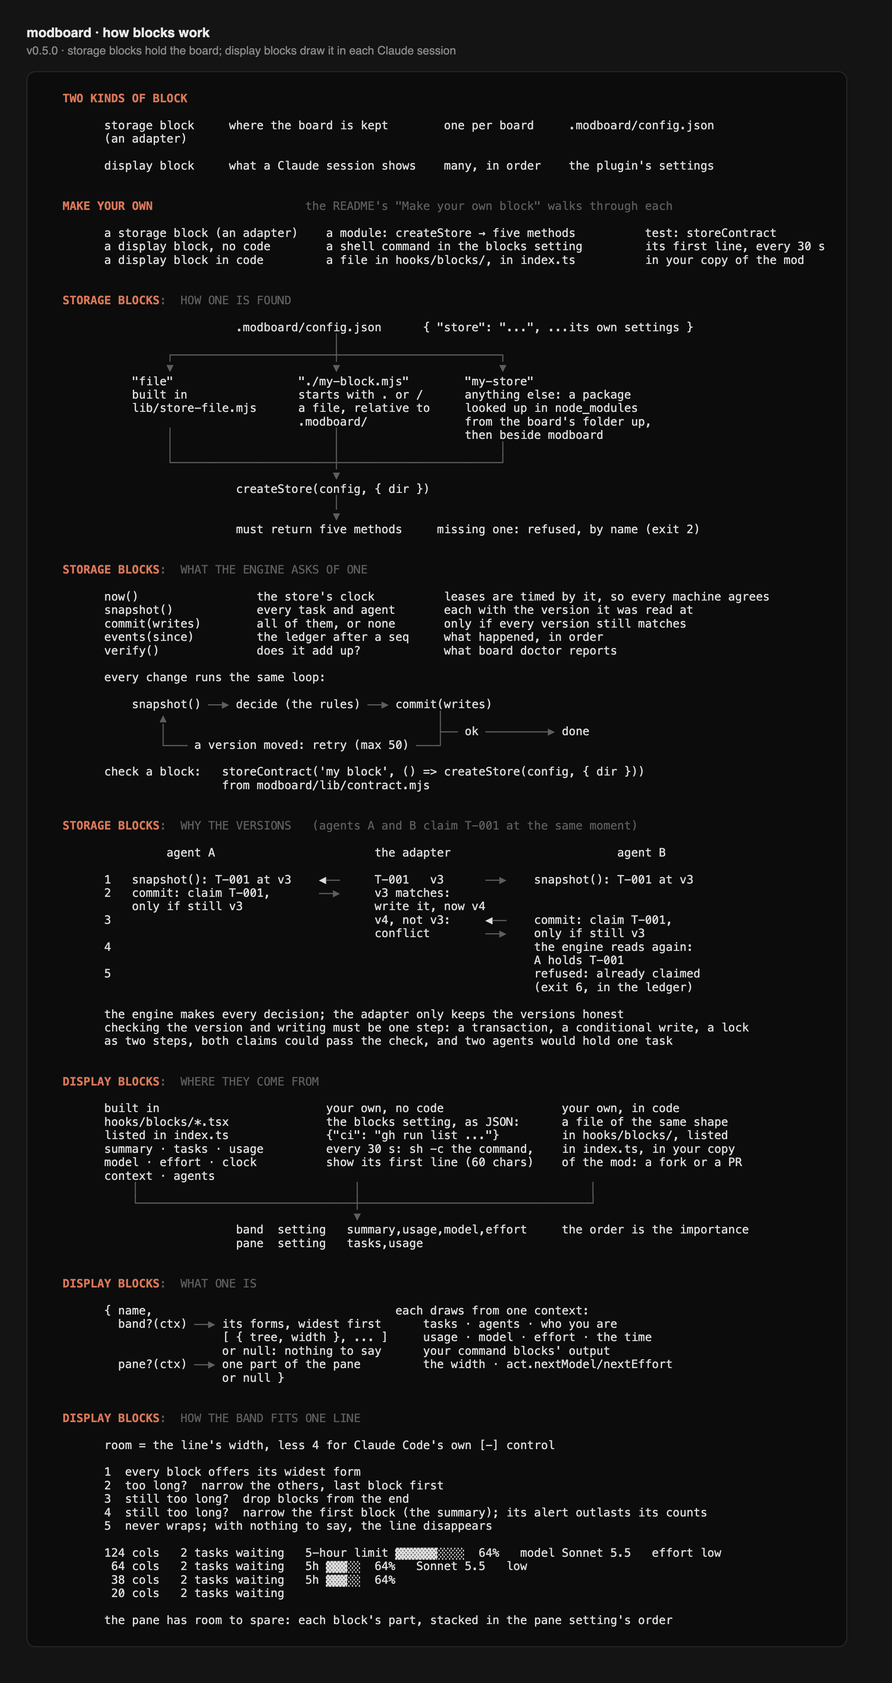
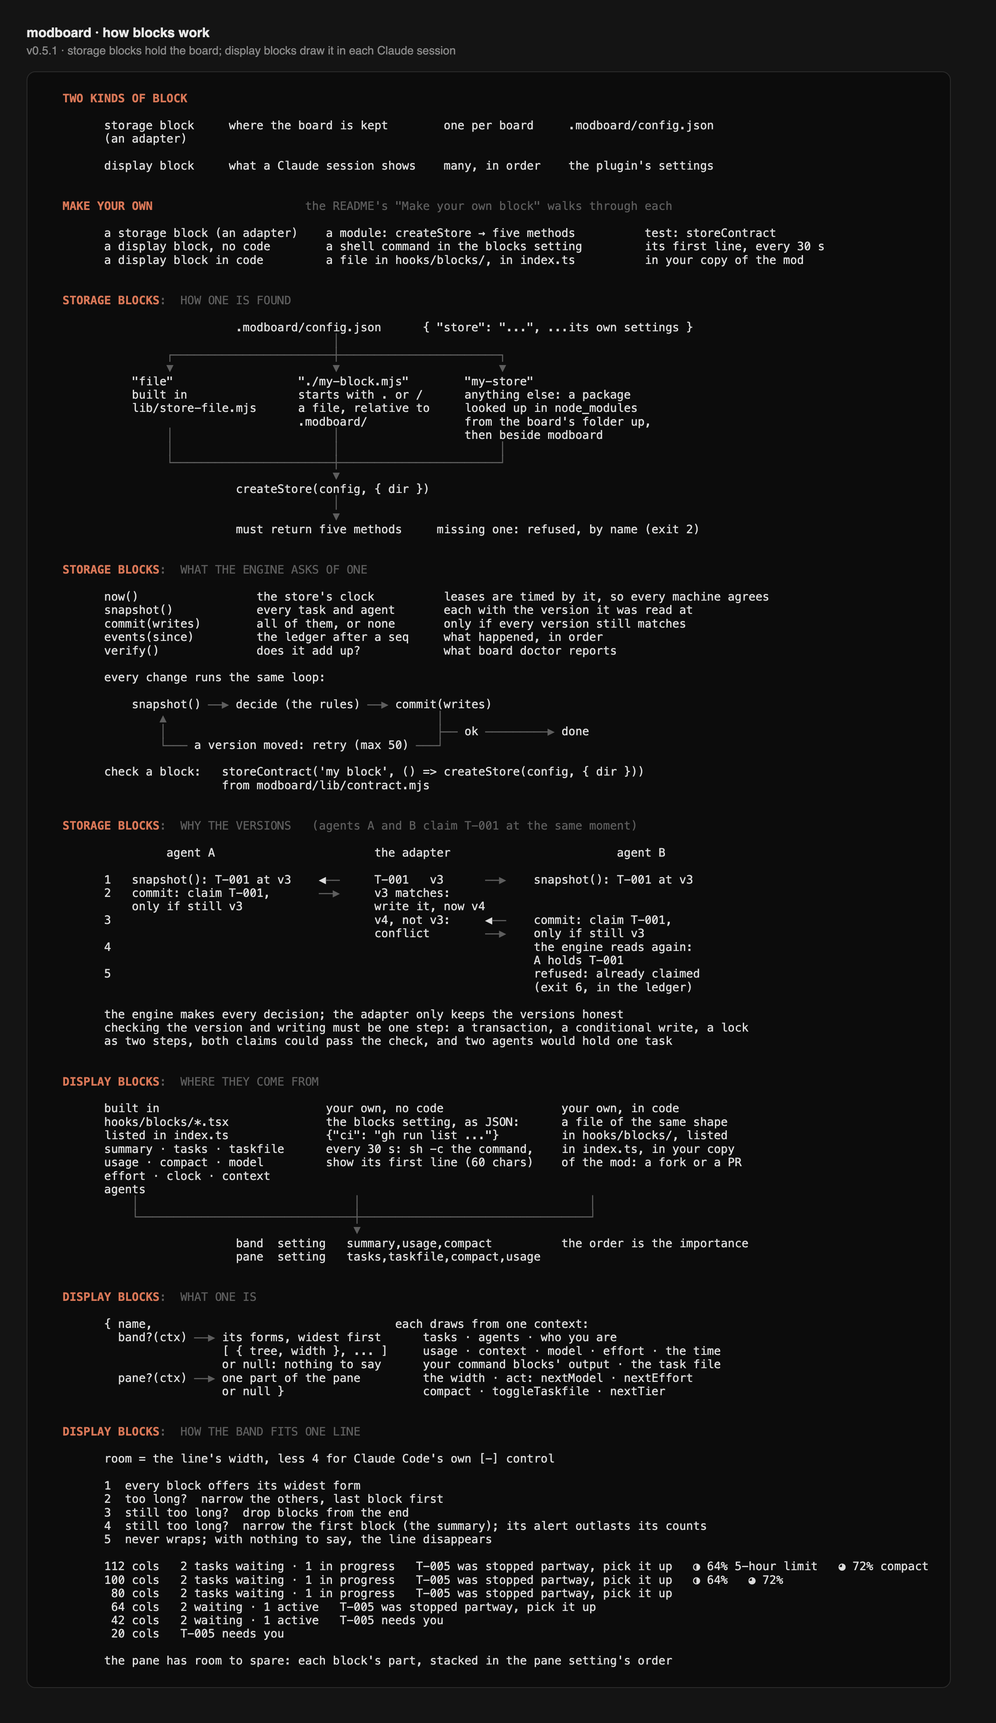
Bring the docs up to date with the task file, priorities and quieter display
- CHANGELOG: Unreleased regrouped into Added, Changed and Reading task files.
- README: what a block's context and act now hold, the two display rules for
  new blocks, what the tests cover, and new known limitations (the task file
  is read-only, /compact from a mod is unverified live, the demo recording
  predates the quieter pane).
- CONTRIBUTING: the display style rules: say a thing once, colour only when
  something needs the person, show what's left then a count, one ring for
  anything that fills.
- docs/system and docs/blocks: new built-in blocks and defaults, the band's
  widths with the ring, "Stopped partway"; images re-rendered.

diff --git a/docs/system.html b/docs/system.html
@@ -9,7 +9,7 @@
   .d{color:#5e5e5e} .h{color:#d97757;font-weight:700} .c{color:#d97757} .g{color:#4ec27a} .m{color:#9a9a9a} .p{color:#f0f0f0;font-weight:700}
   </style></head><body><div class="wrap">
   <p class="t">modboard · how it fits together</p>
-  <p class="s">v0.5.0 · one CLI owns the board; Claude sessions and other agents all go through it</p>
+  <p class="s">v0.5.1 · one CLI owns the board; Claude sessions and other agents all go through it</p>
   <pre><span class="h">  WHO WORKS ON THE BOARD</span><span class="d"></span>
 
   <span class="d">┌</span><span class="d">─</span><span class="d">─</span><span class="d">─</span><span class="d">─</span><span class="d">─</span><span class="d">─</span><span class="d">─</span><span class="d">─</span><span class="d">─</span><span class="d">─</span><span class="d">─</span><span class="d">─</span><span class="d">─</span><span class="d">─</span><span class="d">─</span><span class="d">─</span><span class="d">─</span><span class="d">─</span><span class="d">─</span><span class="d">─</span><span class="d">─</span><span class="d">─</span><span class="d">─</span><span class="d">─</span><span class="d">─</span><span class="d">─</span><span class="d">─</span><span class="d">─</span><span class="d">─</span><span class="d">─</span><span class="d">─</span><span class="d">─</span><span class="d">─</span><span class="d">─</span><span class="d">─</span><span class="d">─</span><span class="d">─</span><span class="d">─</span><span class="d">─</span><span class="d">─</span><span class="d">─</span><span class="d">┐</span>      <span class="d">┌</span><span class="d">─</span><span class="d">─</span><span class="d">─</span><span class="d">─</span><span class="d">─</span><span class="d">─</span><span class="d">─</span><span class="d">─</span><span class="d">─</span><span class="d">─</span><span class="d">─</span><span class="d">─</span><span class="d">─</span><span class="d">─</span><span class="d">─</span><span class="d">─</span><span class="d">─</span><span class="d">─</span><span class="d">─</span><span class="d">─</span><span class="d">─</span><span class="d">─</span><span class="d">─</span><span class="d">─</span><span class="d">─</span><span class="d">─</span><span class="d">─</span><span class="d">─</span><span class="d">─</span><span class="d">─</span><span class="d">─</span><span class="d">─</span><span class="d">─</span><span class="d">─</span><span class="d">─</span><span class="d">─</span><span class="d">─</span><span class="d">─</span><span class="d">─</span><span class="d">─</span><span class="d">─</span><span class="d">┐</span>
@@ -60,8 +60,8 @@
                  <span class="d">┌</span><span class="d">─</span><span class="d">─</span><span class="d">─</span><span class="d">─</span><span class="d">─</span><span class="d">─</span><span class="d">─</span><span class="d">─</span><span class="d">─</span><span class="d">─</span><span class="d">─</span><span class="d">─</span><span class="d">─</span><span class="d">─</span><span class="d">─</span><span class="d">─</span><span class="d">─</span><span class="d">─</span><span class="d">─</span><span class="d">┴</span><span class="d">─</span><span class="d">─</span><span class="d">─</span><span class="d">─</span><span class="d">─</span><span class="d">─</span><span class="d">─</span><span class="d">─</span><span class="d">─</span><span class="d">─</span><span class="d">─</span><span class="d">─</span><span class="d">─</span><span class="d">─</span><span class="d">─</span><span class="d">─</span><span class="d">─</span><span class="d">─</span><span class="d">─</span><span class="d">─</span><span class="d">┐</span>
                  <span class="d">▼</span>                                        <span class="d">▼</span>
         band above the prompt                    /board pane
-        summary · usage · model                  tasks · usage · agents
-        effort · clock · context                 model · effort · clock · context
+        summary · usage · compact                tasks · taskfile · compact · usage
+        model · effort · clock · context         agents · model · effort · clock · context
         + your own blocks                        + your own blocks
 
 
@@ -77,6 +77,6 @@
           <span class="d">│</span> or session silent 3 min     <span class="d">│</span>   <span class="d">│</span>  release --handoff,
           <span class="d">└</span><span class="d">─</span><span class="d">─</span><span class="d">─</span><span class="d">─</span><span class="d">─</span><span class="d">─</span><span class="d">─</span><span class="d">─</span><span class="d">─</span><span class="d">─</span><span class="d">─</span><span class="d">─</span><span class="d">─</span><span class="d">─</span><span class="d">─</span><span class="d">─</span><span class="d">─</span><span class="d">─</span><span class="d">─</span><span class="d">─</span><span class="d">─</span><span class="d">─</span><span class="d">─</span><span class="d">─</span><span class="d">─</span><span class="d">─</span><span class="d">─</span><span class="d">─</span><span class="d">─</span><span class="d">┘</span>   <span class="d">│</span>  or its session ends
                                             <span class="d">▼</span>
-                                          <span class="m">○</span> Needs picking up <span class="d">─</span><span class="d">─</span><span class="d">─</span><span class="d">─</span> claim <span class="d">─</span><span class="d">─</span><span class="d">─</span><span class="d">─</span><span class="d">▶</span> <span class="c">◐</span> In progress
+                                          <span class="m">○</span> Stopped partway <span class="d">─</span><span class="d">─</span><span class="d">─</span><span class="d">─</span><span class="d">─</span> claim <span class="d">─</span><span class="d">─</span><span class="d">─</span><span class="d">─</span><span class="d">▶</span> <span class="c">◐</span> In progress
                                                                               (the next agent reads the handoff first)
 </pre></div></body></html>

diff --git a/docs/blocks.html b/docs/blocks.html
@@ -9,7 +9,7 @@
   .d{color:#5e5e5e} .h{color:#d97757;font-weight:700} .c{color:#d97757} .g{color:#4ec27a} .m{color:#9a9a9a} .p{color:#f0f0f0;font-weight:700}
   </style></head><body><div class="wrap">
   <p class="t">modboard · how blocks work</p>
-  <p class="s">v0.5.0 · storage blocks hold the board; display blocks draw it in each Claude session</p>
+  <p class="s">v0.5.1 · storage blocks hold the board; display blocks draw it in each Claude session</p>
   <pre><span class="h">  TWO KINDS OF BLOCK</span><span class="d"></span>
 
         storage block     where the board is kept        one per board     .modboard/config.json
@@ -88,24 +88,25 @@
         built in                        your own, no code                 your own, in code
         hooks/blocks/*.tsx              the blocks setting, as JSON:      a file of the same shape
         listed in index.ts              {"ci": "gh run list ..."}         in hooks/blocks/, listed
-        summary · tasks · usage         every 30 s: sh -c the command,    in index.ts, in your copy
-        model · effort · clock          show its first line (60 chars)    of the mod: a fork or a PR
-        context · agents
+        summary · tasks · taskfile      every 30 s: sh -c the command,    in index.ts, in your copy
+        usage · compact · model         show its first line (60 chars)    of the mod: a fork or a PR
+        effort · clock · context
+        agents
             <span class="d">│</span>                               <span class="d">│</span>                                 <span class="d">│</span>
             <span class="d">└</span><span class="d">─</span><span class="d">─</span><span class="d">─</span><span class="d">─</span><span class="d">─</span><span class="d">─</span><span class="d">─</span><span class="d">─</span><span class="d">─</span><span class="d">─</span><span class="d">─</span><span class="d">─</span><span class="d">─</span><span class="d">─</span><span class="d">─</span><span class="d">─</span><span class="d">─</span><span class="d">─</span><span class="d">─</span><span class="d">─</span><span class="d">─</span><span class="d">─</span><span class="d">─</span><span class="d">─</span><span class="d">─</span><span class="d">─</span><span class="d">─</span><span class="d">─</span><span class="d">─</span><span class="d">─</span><span class="d">─</span><span class="d">┼</span><span class="d">─</span><span class="d">─</span><span class="d">─</span><span class="d">─</span><span class="d">─</span><span class="d">─</span><span class="d">─</span><span class="d">─</span><span class="d">─</span><span class="d">─</span><span class="d">─</span><span class="d">─</span><span class="d">─</span><span class="d">─</span><span class="d">─</span><span class="d">─</span><span class="d">─</span><span class="d">─</span><span class="d">─</span><span class="d">─</span><span class="d">─</span><span class="d">─</span><span class="d">─</span><span class="d">─</span><span class="d">─</span><span class="d">─</span><span class="d">─</span><span class="d">─</span><span class="d">─</span><span class="d">─</span><span class="d">─</span><span class="d">─</span><span class="d">─</span><span class="d">┘</span>
                                             <span class="d">▼</span>
-                           band  setting   summary,usage,model,effort     the order is the importance
-                           pane  setting   tasks,usage
+                           band  setting   summary,usage,compact          the order is the importance
+                           pane  setting   tasks,taskfile,compact,usage
 
 
 <span class="h">  DISPLAY BLOCKS</span><span class="d">:  WHAT ONE IS</span>
 
         { name,                                   each draws from one context:
           band?(ctx) <span class="d">─</span><span class="d">─</span><span class="d">▶</span> its forms, widest first      tasks · agents · who you are
-                         [ { tree, width }, ... ]     usage · model · effort · the time
-                         or null: nothing to say      your command blocks' output
-          pane?(ctx) <span class="d">─</span><span class="d">─</span><span class="d">▶</span> one part of the pane         the width · act.nextModel/nextEffort
-                         or null }
+                         [ { tree, width }, ... ]     usage · context · model · effort · the time
+                         or null: nothing to say      your command blocks' output · the task file
+          pane?(ctx) <span class="d">─</span><span class="d">─</span><span class="d">▶</span> one part of the pane         the width · act: nextModel · nextEffort
+                         or null }                    compact · toggleTaskfile · nextTier
 
 
 <span class="h">  DISPLAY BLOCKS</span><span class="d">:  HOW THE BAND FITS ONE LINE</span>
@@ -118,10 +119,12 @@
         4  still too long?  narrow the first block (the summary); its alert outlasts its counts
         5  never wraps; with nothing to say, the line disappears
 
-        124 cols   2 tasks waiting   5-hour limit ▓▓▓▓▓▓░░░░  64%   model Sonnet 5.5   effort low
-         64 cols   2 tasks waiting   5h ▓▓▓░░  64%   Sonnet 5.5   low
-         38 cols   2 tasks waiting   5h ▓▓▓░░  64%
-         20 cols   2 tasks waiting
+        112 cols   2 tasks waiting · 1 in progress   T-005 was stopped partway, pick it up   ◑ 64% 5-hour limit   ◕ 72% compact
+        100 cols   2 tasks waiting · 1 in progress   T-005 was stopped partway, pick it up   ◑ 64%   ◕ 72%
+         80 cols   2 tasks waiting · 1 in progress   T-005 was stopped partway, pick it up
+         64 cols   2 waiting · 1 active   T-005 was stopped partway, pick it up
+         42 cols   2 waiting · 1 active   T-005 needs you
+         20 cols   T-005 needs you
 
         the pane has room to spare: each block's part, stacked in the pane setting's order
 </pre></div></body></html>

diff --git a/CHANGELOG.md b/CHANGELOG.md
@@ -5,38 +5,61 @@ modboard was called agent-board until 0.5.0.
 
 ## Unreleased
 
-- A `taskfile` block in the `/board` pane: when the checkout has a `task.md`
-  (or `tasks.md`, `todo.md`), one line says how much of it is open, and
-  clicking it (or pressing `t`) shows what's left under its headings, up to
-  eight items, then a count of the rest. Checked-off items aren't shown. It's on
-  by default (`pane: tasks,taskfile,usage`) and shows nothing without a file.
-- The pane is quieter. Headings are dimmed, and rows lose their ◐/○ mark
-  (the heading says the state). "Not started" shows eight tasks, then
-  "N more"; in-progress and stopped-partway tasks are never cut. The usage
-  bar is plain with room left and takes colour only from 70%.
-- A `compact` block: the context window as a ring that fills (○ ◔ ◑ ◕ ●,
-  yellow from 70%, red from 90%), and clicking it runs `/compact`. It's
-  in the pane by default, and in the band once the context is half full.
-- Usage is drawn with the same ring instead of a bar, so "how full" always
-  looks the same.
-- The band's default is now `summary,usage,compact`. Model and effort are
-  still blocks you can add; Claude Code already shows both.
-- Task rows only say who ("backend", "you"); the heading says what. "Needs
-  picking up" is now "Stopped partway".
-- The weekly limit is no longer shown on the board; the 5-hour limit stays.
-- The task file's priorities: P0–P9 read from headings (`## P0 — …`,
-  `## Sync (P1)`), from items (`- [ ] P2 …`) and from tables with a
-  Priority column. A priority button then turns through the tiers the file
-  has, like the effort button: `P0 · 3`, `P1 · 5`, …, `all`, and round
-  again (or press `p`), showing one tier at a time. It starts on the most
-  urgent. `all` lists every priority in order, each named once where it
-  starts, with unprioritised items last, after a dash.
-- Task files are also found in `docs/`, tables with a task and a status or
-  priority column are read, struck-through items count as done, markdown
-  marks are taken off for display, and once a file checks anything off its
-  plain bullets are left out as notes.
-- `board taskfile` prints that file's items; `--json` gives them as data. It
-  reads no board and never writes one.
+The board can now show a project's own task file, with its priorities, and a
+compact button. The display is quieter: colour, marks and words appear only
+where they tell you something.
+
+### Added
+
+- **A `taskfile` block** in the `/board` pane. When the checkout has a
+  `task.md`, `tasks.md` or `todo.md` (any case) at its root or in `docs/`,
+  one line says how much of it is open. Click it (or press `t`) to see
+  what's left: up to eight items, then a count of the rest. Checked-off
+  items stay in the file and out of the pane. Nothing in it is claimed or
+  written; to work an item through the board, `board add` it.
+- **Task file priorities.** P0–P9 are read from headings (`## P0 — …`,
+  `## Sync (P1)`), from items (`- [ ] P2 …`, which wins over its heading)
+  and from tables with a Priority column.
+- **A priority button** beside the task file, which turns through the tiers
+  the file has the way the effort button turns through levels: `P0 · 3`,
+  `P1 · 5`, …, `all`, and round again (or press `p`). It starts on the most
+  urgent and shows one tier at a time. `all` lists every priority in order,
+  each named once where it starts, with unprioritised items last, after a
+  dash.
+- **A `compact` block**: the context window as a ring that fills
+  (○ ◔ ◑ ◕ ●), and clicking it (or pressing `c`) runs `/compact`. It's in the
+  pane by default, and in the band once the context is half full.
+- **`board taskfile`** prints the task file's items; `--json` gives them as
+  data. It reads no board and writes nothing.
+
+### Changed
+
+- **Defaults.** The band is now `summary,usage,compact`, and the pane
+  `tasks,taskfile,compact,usage`. Model and effort are still blocks you can
+  add to the band; Claude Code already shows both.
+- **One ring for "how full".** Usage is drawn with the same ring as the
+  context instead of a bar, and the two line up in the pane.
+- **Colour only when something needs you**: yellow from 70%, red from 90%.
+  With room left, usage and context stay plain (usage used to be green).
+- **The weekly limit is left off the board.** The 5-hour limit stays;
+  `/usage` has the rest.
+- **A quieter pane.** Headings are dimmed. Rows lose their ◐/○ mark, since
+  the heading says the state, and name only who ("backend", "you"), since
+  the heading says what. "Needs picking up" is now "Stopped partway".
+  "Not started" shows eight tasks, then "N more"; what's in progress or
+  stopped partway is never cut.
+- **The clock** in the pane is dimmed instead of bold.
+
+### Reading task files
+
+- Tables are read when they have a task column and a priority or status
+  column; a status of done, complete or ✅ counts as checked off.
+- Struck-through items (`~~old plan~~`) count as done.
+- Once a file checks anything off, its plain bullets are notes, not tasks,
+  and are left out.
+- Markdown marks (`**`, backticks, link syntax) and status emoji are taken
+  off item text and headings for display.
+- A broken link named `task.md` reads as no task file, not an error.
 
 ## 0.5.1 — 2026-11-19
 

diff --git a/README.md b/README.md
@@ -488,10 +488,17 @@ export const mine: Block = {
 ```
 
 Every block gets the same context (see [`types.tsx`](hooks/blocks/types.tsx)):
-the tasks, the live agents, who this session is, plan usage, the model and
-effort, the time, the width, your command blocks' output, and `act` for
-switching the model or effort when the block is clicked. A block may draw in
-the band, the pane or both.
+the tasks, the live agents, who this session is, plan usage and context
+fill, the model and effort, the time, the width, your command blocks'
+output, the project's task file (and whether its list is open, and which
+priority it's turned to), and `act` for what a click can do: switch the
+model or effort, run `/compact`, open the task file or turn its priority. A
+block may draw in the band, the pane or both.
+
+Two rules keep the display calm, and a new block should follow them: colour
+only when something needs the person (theme `warning` and `error`), and no
+word or mark that the heading or the order already says. The `meter.tsx`
+ring is there for anything that fills up.
 
 Then list it in [`index.ts`](hooks/blocks/index.ts) (an import, and its name
 in `BLOCKS`), name it in the `band` or `pane` setting, and run
@@ -520,10 +527,16 @@ ownership, handoff, lease expiry, heartbeat, rejected-claim logging, verified
 done, release-all) and the store contract against the file block and an
 in-memory reference block (concurrent claims and adds, stale writes, names).
 It also checks that the CLI loads a block named in `config.json` and refuses
-a broken one. `claude plugin test .` runs the mod tests (the pane's sections
-and alerts, the band and when it stays quiet, names and their fallback, the
-tools, the verification note, release on session end, usage, and choosing
-blocks).
+a broken one, and that `board taskfile` reads each way a task file keeps
+items and priorities (headings, items, tables, `docs/`) without touching the
+board. `claude plugin test .` runs the mod tests (the pane's sections and
+alerts and the eight-row limit, the band and when it stays quiet, names and
+their fallback, the tools, the verification note, release on session end,
+usage and the context ring, the compact button, the task file's list and
+its priority button's whole turn, and choosing blocks).
+
+The task file, priority and compact features were added after the live
+tests above, and have so far run only under the automated tests.
 
 ---
 
@@ -548,14 +561,15 @@ modboard/
 │   ├── engine.mjs           # the rules: claims, leases, handoffs, names, the ledger
 │   ├── load-store.mjs       # finds the storage block that config.json names
 │   ├── store-file.mjs       # the built-in storage block: a folder
-│   ├── taskfile.mjs         # reads a project's task.md for display
+│   ├── taskfile.mjs         # reads a project's task file and its priorities, for display
 │   └── contract.mjs         # the tests every storage block must pass
 ├── examples/
 │   └── store-memory.mjs     # a complete storage block in about 20 lines
 ├── hooks/
 │   ├── hooks.json
 │   ├── register.tsx         # the Claude Code mod: tools, heartbeat, band, pane
-│   └── blocks/              # one file per display block, listed in index.ts
+│   └── blocks/              # one file per display block, listed in index.ts;
+│                            # meter.tsx is the ring that usage and compact share
 ├── types/index.d.ts
 ├── .claude-plugin/
 │   └── plugin.json          # the mod's manifest and settings
@@ -588,6 +602,14 @@ Each diagram's source is plain text. After editing a `.txt`,
   (15 minutes).
 - **A verification note is the agent's own claim.** The board requires one
   but doesn't run the check itself.
+- **The task file is read-only.** The board shows it but never writes it,
+  and its items can't be claimed. Add one with `board add` to work it
+  through the board.
+- **The compact button asks Claude Code to run `/compact`.** Whether a mod's
+  request compacts exactly as typing it does is not yet checked in a live
+  session.
+- **The demo recording predates the quieter pane.** It still shows row
+  marks and "is on it".
 
 ---
 

diff --git a/CONTRIBUTING.md b/CONTRIBUTING.md
@@ -71,9 +71,18 @@ through each kind.
 ## Style
 
 - **Plain words in anything a person reads**: the band, the pane, CLI output,
-  docs. "backend is on it", not "claimed by backend". The CLI flags and the
+  docs. "Stopped partway", not "released with handoff". The CLI flags and the
   tools keep the precise terms (claim, lease, handoff), because agents act on
   them.
+- **Say a thing once.** If the heading or the order already says it, the row
+  doesn't: under "In progress", a row names only who ("backend").
+- **Colour only when something needs the person**: theme `warning` from
+  70%, `error` from 90%, and alerts. Nothing is green for "fine".
+- **Show what's left, then a count.** Long lists stop at eight rows
+  (`SHOWN` in `hooks/blocks/types.tsx`) and end in "N more". Work that needs
+  the person is never cut.
+- **One look for one idea.** Anything that fills up uses the ring in
+  `hooks/blocks/meter.tsx`.
 - **No new dependencies** in the CLI or engine.
 - **Commit messages** say what changed and why, in a short first line and,
   where it helps, a few lines below it.
